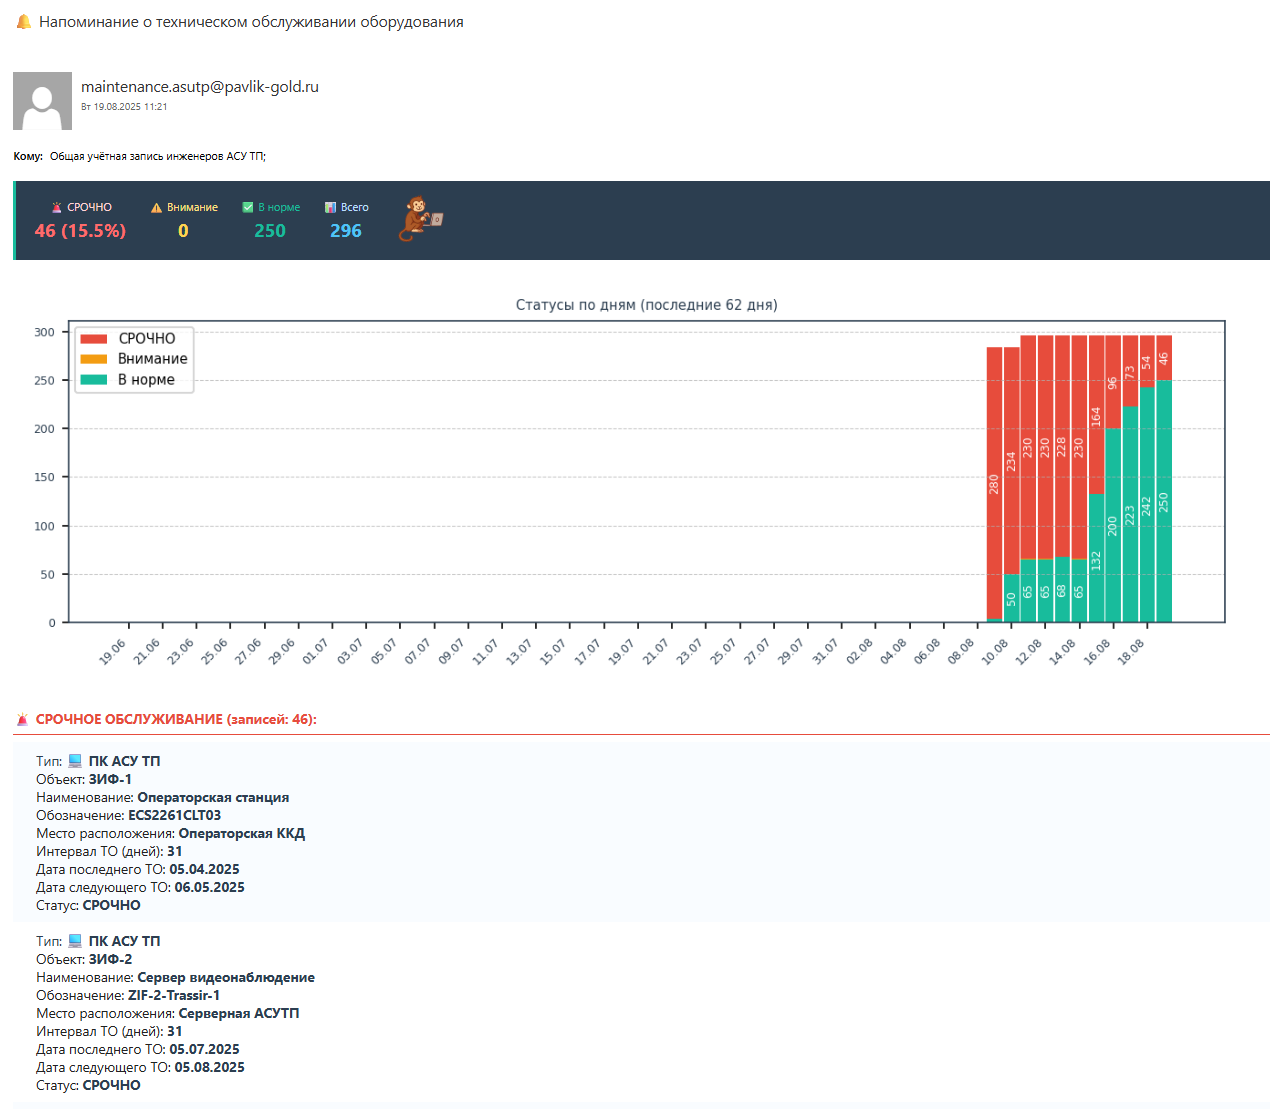
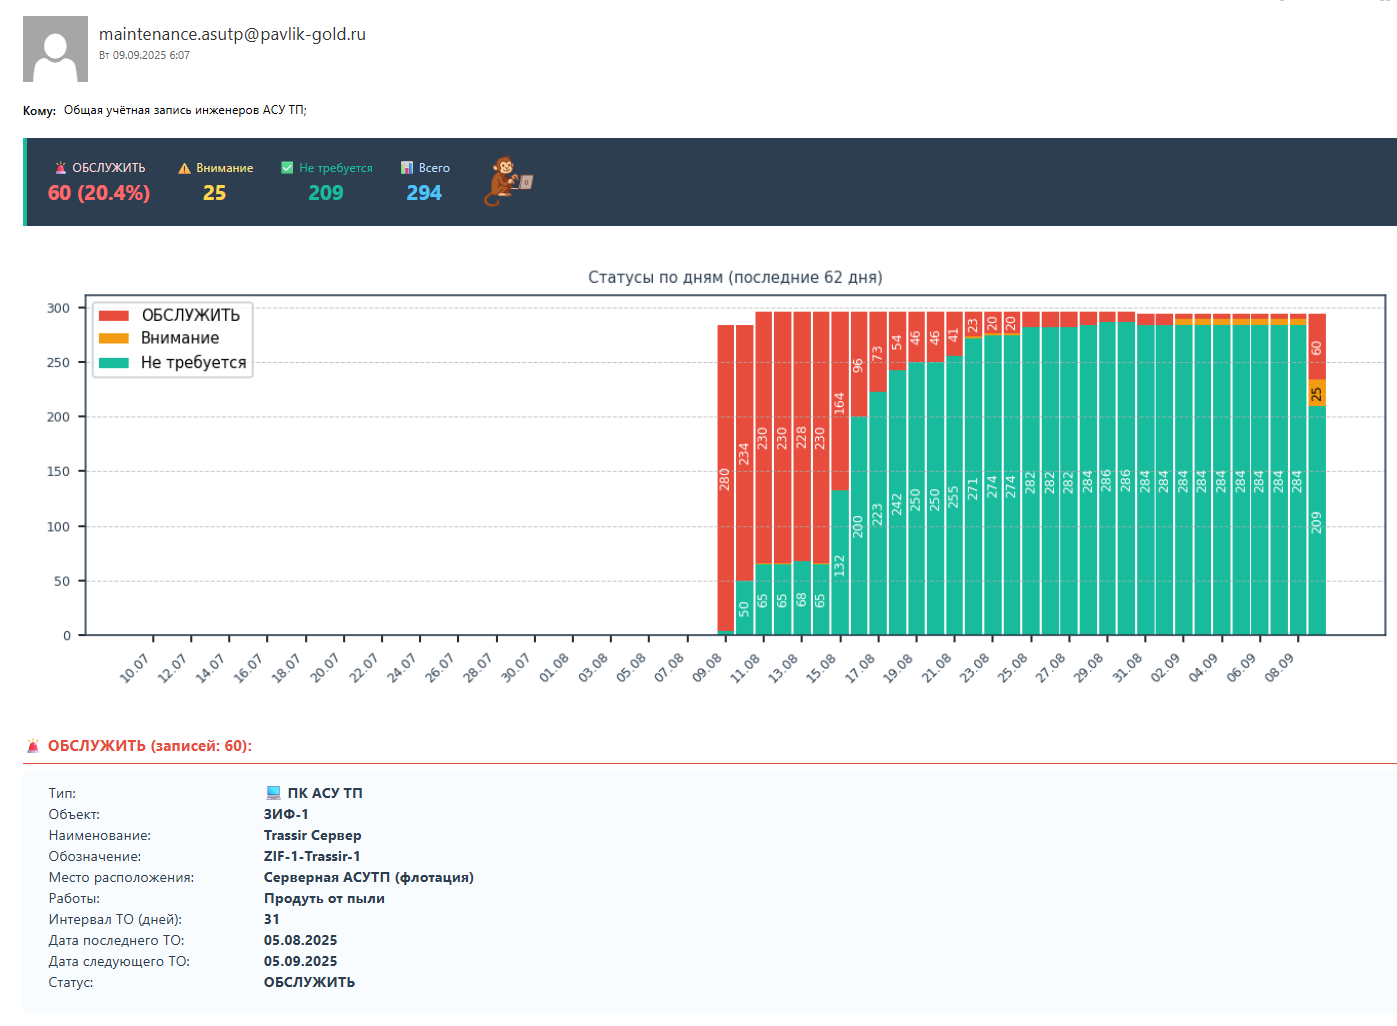
feat(excel): add automatic formula recalculation and file verification
- Integrate xlwings to force recalculation of Excel formulas before reading
- Verify file save success by checking modification timestamps
- Add warnings if Excel files are locked during processing
- Replace "Выполнить" column with "Работы" and update related logic
- Remove dependency on openpyxl, relying solely on xlwings now
- Enhance email notifications with alert if Excel sheet is open and locked
- Improve logging and error handling for Excel processing steps
- Update README to reflect new installation steps and usage instructions

Changed region(s): [[0.0, 0.0, 1.0, 0.9981]]

diff --git a/maintenance_alert.py b/maintenance_alert.py
@@ -478,7 +478,7 @@ def recalculate_excel_formulas(file_path: Path) -> bool:
                 
                 print("✅ Формулы успешно пересчитаны и сохранены (xlwings)")
                 return True
-                
+
             finally:
                 # Закрываем книгу
                 wb.close()
@@ -792,11 +792,11 @@ def create_email_body(urgent_items: List[pd.DataFrame],
             <div style="background-color: #ff6b6b; border-radius: 8px; padding: 15px; border-left: 5px solid #e74c3c;
                         color: white; margin-bottom: 20px; display: flex; align-items: center;">
                 <div style="margin-right: 15px;">
-                    <img src="cid:app_icon_alert" alt="Иконка приложения" style="width: 80px; height: 80px; border-radius: 8px;">
+                    <img src="cid:app_icon_alert" alt="Иконка приложения" style="width: 86px; height: 86px; border-radius: 8px;">
                 </div>
                 <div style="text-align: left;">
                     <div style="font-size: 16px; font-weight: bold; margin-bottom: 10px;">⚠ ВНИМАНИЕ! ТАБЛИЦА ОТКРЫТА! ⚠</div>
-                    <div style="font-size: 14px; line-height: 1.4;">
+                    <div style="font-size: 16px; line-height: 1.4;">
                         Перерасчёт графика обслуживания невозможен!<br/>
                         Закройте таблицу чтобы восстановить расчёты, или живите дальше в проклятом мире, который сами и создали!
                     </div>

diff --git a/README.md b/README.md
@@ -3,7 +3,7 @@
 [![Python 3.6+](https://img.shields.io/badge/python-3.6+-blue.svg)](https://www.python.org/downloads/)
 [![License: MIT](https://img.shields.io/badge/License-MIT-yellow.svg)](https://opensource.org/licenses/MIT)
 ![Platform: Windows](https://img.shields.io/badge/platform-Windows-green.svg)
-![Version](https://img.shields.io/badge/version-1.1.5-brightgreen.svg)
+![Version](https://img.shields.io/badge/version-1.3.0-brightgreen.svg)
 
 Автоматизированная система мониторинга и уведомлений о сроках технического обслуживания оборудования АСУТП (Автоматизированные системы управления технологическими процессами).
 
@@ -29,10 +29,17 @@
 - Мониторинг шкафов автоматики АСУ ТП
 - Автоматическое определение статуса оборудования
 
-### 📧 Система уведомлений
-- Автоматическая отправка email-уведомлений
-- Цветовая индикация срочности работ
-- Подробная информация о каждом элементе оборудования
+### 🔄 Автоматический пересчет формул Excel
+- Интеграция с xlwings для корректного пересчета формул
+- Проверка времени модификации файлов
+- Автоматическая верификация успешности записи
+- Предупреждения при блокировке файлов Excel
+
+### 📧 Интеллектуальные уведомления
+- Предупреждающие сообщения при неудачном пересчете
+- Цветовая кодировка по уровню срочности
+- Встроенные диаграммы и иконки статуса
+- Детализированная информация по каждому элементу
 
 ### 📊 Визуализация данных
 - Графики статусов обслуживания за последние 62 дня
@@ -77,8 +84,14 @@ maintenance_alert/
 # Установка из requirements.txt (рекомендуется)
 pip install -r requirements.txt
 
-# Или установка основных пакетов вручную
-pip install pandas openpyxl matplotlib numpy
+# Основные пакеты (обязательные)
+pip install pandas>=1.5.0 matplotlib>=3.5.0 xlwings>=0.28.0
+```
+
+**ВАЖНО:** После установки xlwings необходимо выполнить:
+```bash
+# Настройка для работы с Excel
+xlwings quickstart
 ```
 
 ### Установка в виртуальном окружении
@@ -102,12 +115,17 @@ pip install -r requirements.txt
 3. Наименование
 4. Обозначение
 5. Место расположения
-6. Выполнить
+6. Работы (ранее "Выполнить")
 7. Интервал ТО (дней)
 8. Напоминание (за дней)
 9. Дата последнего ТО
-10. Дата следующего ТО
-11. Статус
+10. Дата следующего ТО (автоматически рассчитывается)
+11. Статус (автоматически определяется)
+
+**Особенности новой версии:**
+- Автоматический пересчет формул Excel перед чтением
+- Проверка и верификация записи файлов
+- Предупреждения при блокировке файлов Excel
 
 ### Настройка SMTP
 
@@ -169,12 +187,45 @@ python maintenance_alert.py
 python maintenance_alert.py --version
 ```
 
+## 🔍 Особенности версии 1.3.0
+
+### Автоматический пересчет формул Excel
+
+Версия 1.3.0 включает кардинальное улучшение обработки Excel файлов:
+
+✨ **Ключевые улучшения:**
+- 🔄 **Принудительный пересчет** всех формул перед чтением данных
+- 🕰 **Проверка времени модификации** для подтверждения успешности сохранения
+- ⚠ **Умные предупреждения** при блокировке файлов
+- 🔍 **Верификация целостности** файлов после записи
+
+⚡ **Предупреждающие уведомления:**
+Когда Excel файл открыт в другом приложении и не может быть обновлен, система автоматически добавляет яркое предупреждение в верхнюю часть email-уведомления.
+
+### Миграция с предыдущих версий
+
+1. **Обновите зависимости:**
+   ```bash
+   pip uninstall openpyxl  # Удаляем старую зависимость
+   pip install xlwings>=0.28.0  # Устанавливаем новую
+   ```
+
+2. **Переименуйте колонку в Excel:**
+   - Измените "Выполнить" на "Работы" (необязательно)
+
+3. **Проверьте работу:**
+   ```bash
+   python maintenance_alert.py
+   ```
+
+🔄 **Обратная совместимость:** Полностью сохранена с старыми файлами конфигурации и статистики.
+
 ## 📊 Формат данных
 
 ### Статусы оборудования
-- 🚨 **СРОЧНО** - требуется немедленное обслуживание (просрочено)
+- 🚨 **ОБСЛУЖИТЬ** - требуется немедленное обслуживание (просрочено)
 - ⚠ **Внимание** - приближается срок обслуживания (в пределах напоминания)
-- ✅ **В норме** - оборудование обслужено вовремя
+- ✅ **Не требуется** - оборудование обслужено вовремя
 
 ### Структура Excel-таблицы
 
@@ -188,7 +239,7 @@ python maintenance_alert.py --version
 | C | Наименование | Модель оборудования |
 | D | Обозначение | Уникальный идентификатор |
 | E | Место расположения | Физическое расположение |
-| F | Выполнить | Действия для выполнения |
+| F | Работы | Действия для выполнения |
 | G | Интервал ТО (дней) | Периодичность обслуживания |
 | H | Напоминание (за дней) | За сколько дней предупреждать |
 | I | Дата последнего ТО | Когда проводилось ТО |
@@ -209,7 +260,7 @@ python maintenance_alert.py --version
     }
   ],
   "last_update": "2025-08-19T07:00:00",
-  "version": "1.1.5"
+  "version": "1.3.0"
 }
 ```
 
@@ -218,8 +269,8 @@ python maintenance_alert.py --version
 ### Email-уведомления
 - Цветовая кодировка статусов
 - Эмодзи для быстрой идентификации типов оборудования:
-  - 💻 Персональные компьютеры
-  - 🗄 Шкафы автоматики
+  - 📋 Персональные компьютеры
+  - 📦 Шкафы автоматики
 - Чередующийся фон для лучшей читаемости
 - Встроенные диаграммы статистики
 
@@ -232,18 +283,20 @@ python maintenance_alert.py --version
 ## 🔧 Технические детали
 
 ### Версия и совместимость
-- **Текущая версия:** 1.1.5
-- **Дата выпуска:** 19.08.2025
+- **Текущая версия:** 1.3.0
+- **Дата выпуска:** 09.09.2025
 - **Python:** 3.6+
 - **Excel:** .xlsx формат (Excel 2007+)
+- **xlwings:** для пересчета формул
 
 ### Зависимости
 ```
-pandas >= 2.3.1       # Работа с данными
-openpyxl >= 3.1.5     # Чтение Excel файлов
-matplotlib >= 3.10.5  # Создание графиков
-numpy >= 2.3.2        # Численные вычисления
+pandas >= 1.5.0        # Работа с данными
+matplotlib >= 3.5.0    # Создание графиков
+xlwings >= 0.28.0      # Пересчет формул Excel (ОБЯЗАТЕЛЬНО)
 ```
+
+**ВАЖНЮЕ изменение:** В версии 1.3.0 удалена зависимость от openpyxl. Теперь используется только xlwings для полного контроля над Excel.
 
 ### Логирование
 Система ведет подробное логирование в консоль:
@@ -313,6 +366,14 @@ SHEETS_CONFIG = {
 - Администрирование системы
 
 ## 🔄 История версий
+
+### v1.3.0 (09.09.2025) - Основное обновление
+- ✅ **Удалена зависимость от openpyxl** - теперь только xlwings
+- 🔄 **Автоматический пересчет формул Excel** перед каждым чтением
+- 🔍 **Проверка записи файлов** по времени модификации
+- ⚠ **Предупреждения о блокировке** Excel файлов в email
+- 📝 **Обновлена колонка** "Выполнить" → "Работы"
+- 📊 **Улучшенная обработка ошибок** и логирование
 
 ### v1.1.5 (19.08.2025)
 - Улучшена обработка данных Excel
